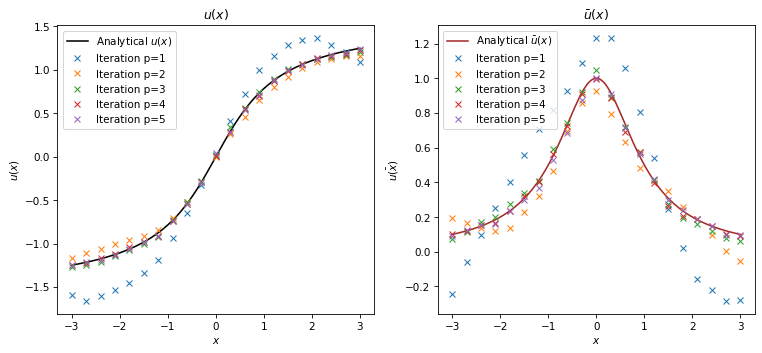
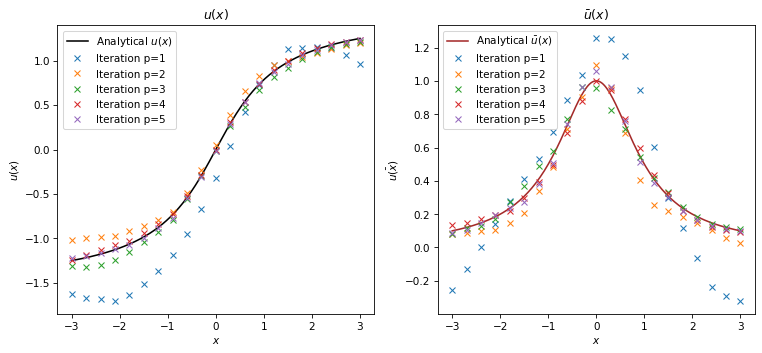
Minor rearrangements

diff --git a/NN_Picard_mult.py b/NN_Picard_mult.py
@@ -39,7 +39,7 @@ theta_bar = 1.5
 sig_X = 2.0
 
 c = 2.0             # Monotonicity constant mu= (c-1) = 2
-K_z = 0.0           # z-Lipschitz constant K_{f,z} = 1
+K_z = 1.0           # z-Lipschitz constant K_{f,z} = 1
 print("K_z=", K_z)
 
 
@@ -239,8 +239,9 @@ bn_layers = [
             )
             for _ in range(3)]
 
-zeros = np.zeros(d+1, dtype='float32')
-model_init = tf.keras.Sequential(layers.Lambda(lambda x: tf.constant([zeros for _ in range(len(x))])))
+#zeros = np.zeros(d+1, dtype='float32')
+#model_init = tf.keras.Sequential(layers.Lambda(lambda x: tf.constant([zeros for _ in range(len(x))])))
+model_init = tf.keras.Sequential([layers.Lambda(lambda x: tf.zeros((tf.shape(x)[0], d+1)))])
 
 NN = tf.keras.Sequential([layers.Dense(20 + d, input_shape=(d,), activation=activation),#activation=tf.keras.layers.LeakyReLu(alpha=0.01)),
                           bn_layers[0],

diff --git a/vect_grid_scheme.py b/vect_grid_scheme.py
@@ -2,6 +2,7 @@ import numpy as np
 import scipy.stats as stats
 import matplotlib.pyplot as plt
 from numba import jit
+from time import time
 
 
 class GridScheme:
@@ -362,6 +363,7 @@ class GridScheme:
 
                     #fig.savefig('Numerical_experiments/Grid_scheme/2d/ub_1_and_ub_2_iter_{}.png'.format(p + 1),
                     #            bbox_inches='tight')
+                    print("Total time taken: ", time() - time_init, " seconds")
                     plt.show()
 
             self.L1_err_u = pic_err_u
@@ -370,5 +372,7 @@ class GridScheme:
             # temp = np.load('Numerical_experiments/NN_Picard_dim1/ub_err_1d.npy')
 
 
-A = GridScheme(d=1, r=2, R=3, M=40000, NbP=6, plot_iter=True)
-A.PicIter()
+if __name__ == "__main__":
+    A = GridScheme(d=1, r=2, R=3, M=40000, NbP=10, plot_iter=True)
+    time_init = time()
+    A.PicIter()
